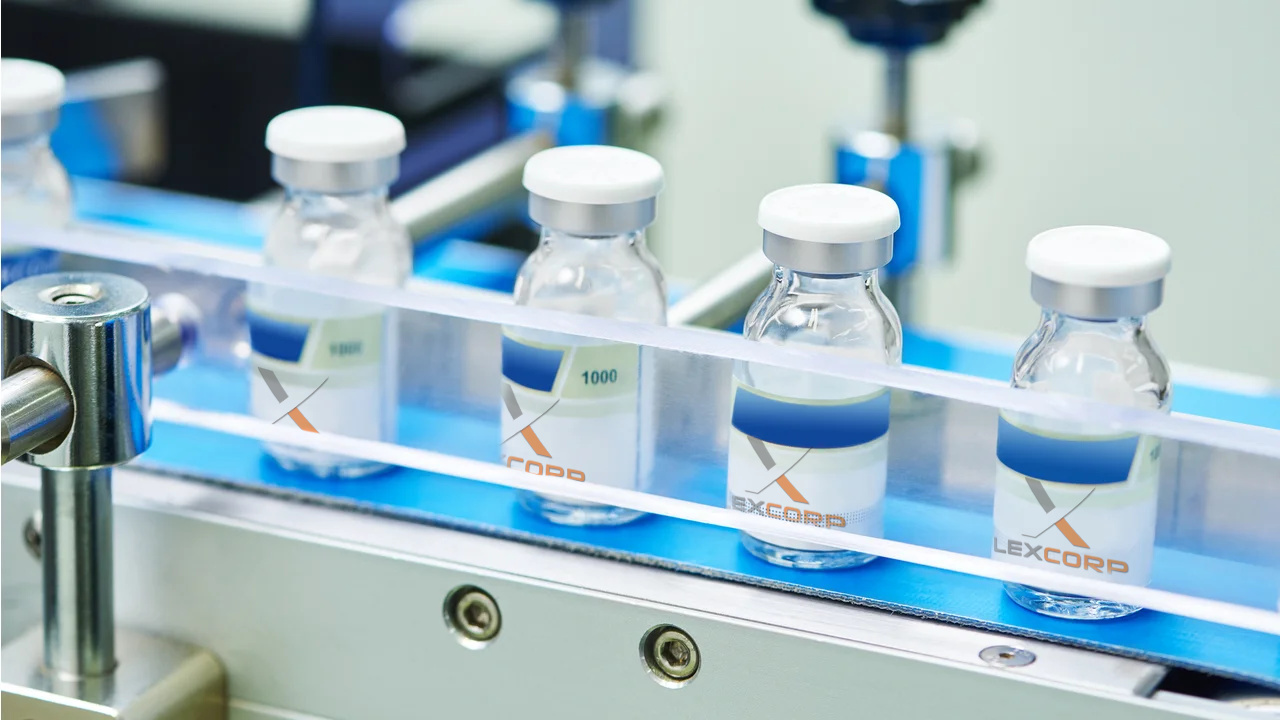
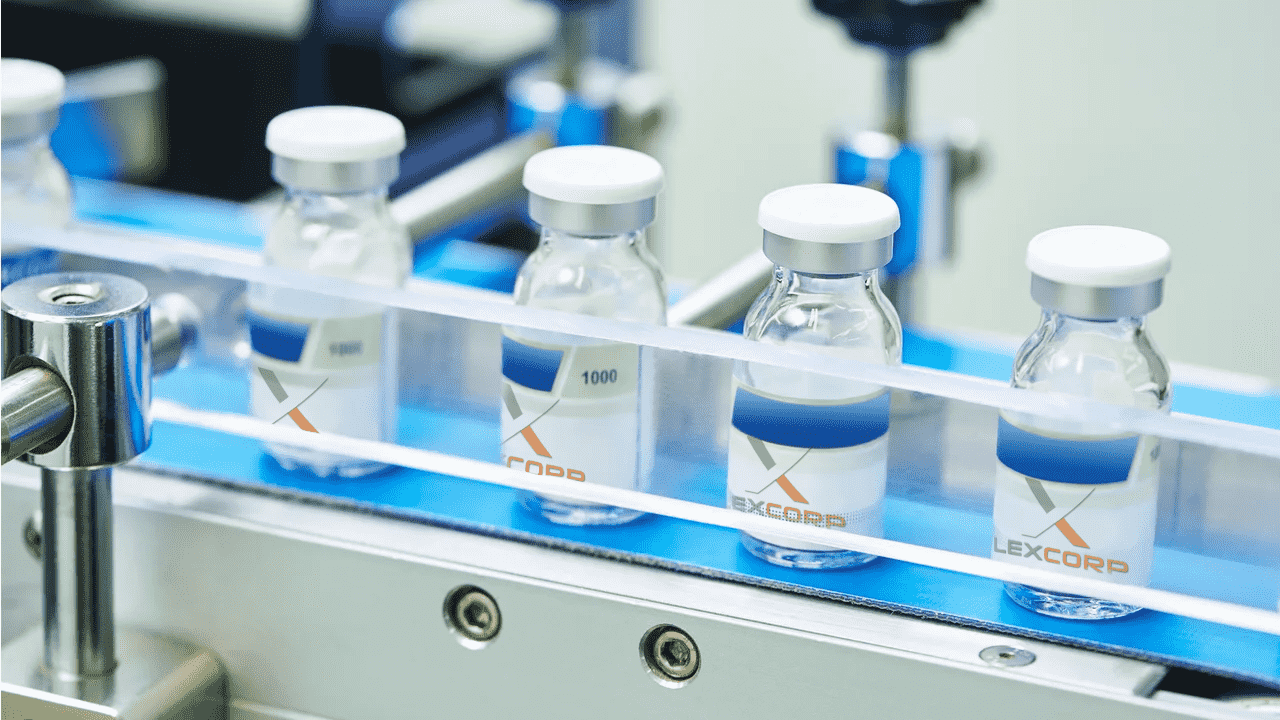
Add files via upload

diff --git a/lexlink.html b/lexlink.html
@@ -83,7 +83,7 @@
     <div class="container fade-in">
         <div class ="row">
             <div class="image">
-                <img src="img/residential.png">
+                <img src="img/residential.webp">
                 <div class="details">
                     <h2>RESIDENTIAL</h2>
                     <p>Connect at home.</p>
@@ -93,7 +93,7 @@
             </div>
             </div>
             <div class="image">
-                <img src="img/roam.png">
+                <img src="img/roam.webp">
                 <div class="details">
                     <h2>ROAM</h2>
                     <p>Connect on the go.</p>
@@ -103,7 +103,7 @@
             </div>
             </div>
             <div class="image">
-                <img src="img/commercial.png">
+                <img src="img/commercial.webp">
                 <div class="details">
                     <h2>COMMERCIAL</h2>
                     <p>Connect for your business.</p>
@@ -144,7 +144,7 @@
                 </a>
               </div>
               <div class="hero-image">
-                <img src="img/lexlinkspace.png" />
+                <img src="img/lexlinkspace.webp" />
               </div>
             </div>
           </div>

diff --git a/starlabs.html b/starlabs.html
@@ -66,7 +66,7 @@
     <div class="section-hero">
         <div class="hero-content">
           <div class="hero-image">
-            <img src="img/wells.png" />
+            <img src="img/wells.webp" />
           </div>
           <div class="hero-text fade-in">
             <h2>MISSION STATEMENT<br> FROM
@@ -143,7 +143,7 @@
 <div class="container fade-in">
     <div class ="row">
         <div class="image">
-            <img src="img/starlabs1.png">
+            <img src="img/starlabs1.webp">
             <div class="details">
                 <h2>Central City</h2>
                 <div class="more">
@@ -161,7 +161,7 @@
         </div>
         </div>
         <div class="image">
-            <img src="img/starlabs3.png">
+            <img src="img/starlabs3.webp">
             <div class="details">
                 <h2>STAR CITY</h2>
                 <div class="more">

diff --git a/tcri.html b/tcri.html
@@ -66,7 +66,7 @@
     <div class="section-hero">
         <div class="hero-content">
           <div class="hero-image">
-            <img src="img/stockman.png" />
+            <img src="img/stockman.webp" />
           </div>
           <div class="hero-text fade-in">
             <h2>MISSION STATEMENT<br> FROM
@@ -120,7 +120,7 @@
 <div class="container fade-in">
     <div class ="row">
         <div class="image">
-            <img src="img/tcri1.png">
+            <img src="img/tcri1.webp">
             <div class="details">
                 <h2>New York</h2>
                 <div class="more">
@@ -138,7 +138,7 @@
         </div>
         </div>
         <div class="image">
-            <img src="img/tokyo.png">
+            <img src="img/tokyo.webp">
             <div class="details">
                 <h2>TOKYO</h2>
                 <div class="more">

diff --git a/luthortech.html b/luthortech.html
@@ -67,7 +67,7 @@
     <div class="container fade-in">
         <div class ="row">
             <div class="image">
-                <img src="img/starlabs1.png">
+                <img src="img/starlabs1.webp">
                 <div class="details">
                     <h2>S.T.A.R LABS</h2>
                     <p>Acquired by LexCorp in 2014, S.T.A.R Labs has made significant progress in the producing
@@ -78,7 +78,7 @@
             </div>
             </div>
             <div class="image">
-                <img src="img/tcri1.png">
+                <img src="img/tcri1.webp">
                 <div class="details">
                     <h2>T.C.R.I</h2>
                     <p>Active since the 1980s, the T.C.R.I has advanced the scope of robotics and mutagen research to monumental heights.

diff --git a/cadmus.html b/cadmus.html
@@ -67,7 +67,7 @@
     <div class="section-hero">
         <div class="hero-content">
           <div class="hero-image">
-            <img src="img/hamilton.png" />
+            <img src="img/hamilton.webp" />
           </div>
           <div class="hero-text fade-in">
             <h2>MISSION STATEMENT<br> FROM
@@ -161,7 +161,7 @@
         </div>
         </div>
         <div class="image">
-            <img src="img/gotham.png">
+            <img src="img/gotham.webp">
             <div class="details">
                 <h2>GOTHAM CITY</h2>
                 <div class="more">

diff --git a/css/style.css b/css/style.css
@@ -805,7 +805,7 @@ background-image: linear-gradient(rgba(0, 0, 0, 0.5),rgba(0, 0, 0, 0.5)),url('..
 .main-home{
     width: 100%;
     height: 100vh;
-    background-image: linear-gradient(rgba(0, 0, 0, 0.2),rgba(0, 0, 0, 0.2)), url("../img/image/banner-3.png");
+    background-image: linear-gradient(rgba(0, 0, 0, 0.2),rgba(0, 0, 0, 0.2)), url("../img/image/banner-3.webp");
     background-position: center;
     background-size:cover;
     display: grid;

diff --git a/excalibur.html b/excalibur.html
@@ -94,7 +94,7 @@
 <div class="section-hero">
   <div class="hero-content">
     <div class="hero-image">
-      <img src="img/exc-space.png" />
+      <img src="img/exc-space.webp" />
     </div>
     <div class="hero-text fade-in">
       <h2>GUARDING THE GLOBE FROM SPACE</h2>
